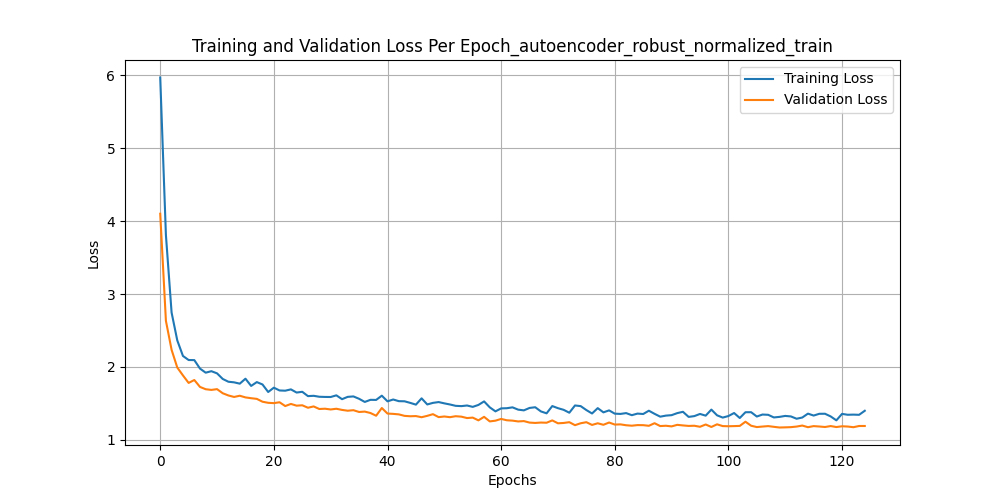
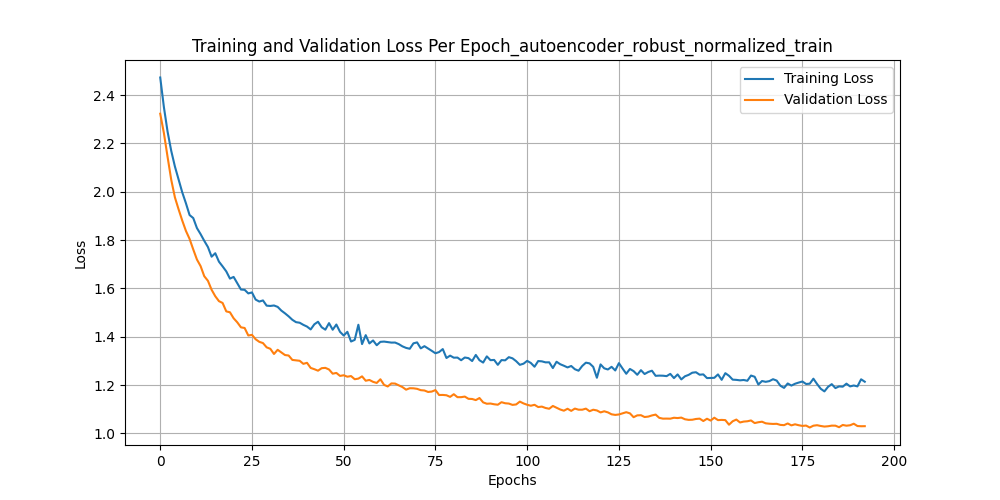
with class 4 samples also unknown in unknown chip

diff --git a/utils/data_utils.py b/utils/data_utils.py
@@ -279,10 +279,11 @@ def compute_robust_class_4_then_normalize(
         }
         stats_per_chip.append(chip_stats)
 
-        # Robust normalize other-class rows in same chip: (x - median) / MAD
-        other_mask = (df_copy[chip_column] == chip) & (df_copy[class_column] != target_class)
-        df_copy.loc[other_mask, columns_to_normalize] = (
-            df_copy.loc[other_mask, columns_to_normalize] - median_target
+        # Robust normalize ALL samples in same chip: (x - median) / MAD
+        # This includes both target class and other classes
+        chip_mask = (df_copy[chip_column] == chip)
+        df_copy.loc[chip_mask, columns_to_normalize] = (
+            df_copy.loc[chip_mask, columns_to_normalize] - median_target
         ) / mad_target
 
     # Compute overall statistics
@@ -728,9 +729,10 @@ def load_and_preprocess_test_data(file_path, fraction=1, random_seed=42,
             
         elif normalization_type == 'class_based_robust':
             # Class-based robust scaling normalization (using target class statistics)
+            # For robust scaling, always normalize ALL classes including Class 4
             _apply_class_based_robust_normalization(X, y, df, target_class_encoded, normalization_columns, 
-                                                   stats_source, stats_path, normalize_target_class)
-            print(f"Applied class-based robust scaling normalization (target class normalization: {normalize_target_class})")
+                                                   stats_source, stats_path, normalize_target_class=True)
+            print(f"Applied class-based robust scaling normalization (all classes normalized using Class 4 statistics)")
             
         elif normalization_type == 'class_based_peak_to_peak':
             # Class-based peak-to-peak normalization (using target class statistics)
@@ -974,41 +976,30 @@ def _normalize_features(X, y, target_class_encoded, peak_columns,
 
 
 def _normalize_features_robust(X, y, target_class_encoded, peak_columns, 
-                              peak_median, peak_mad, temp_median, temp_mad, normalize_target_class=False):
+                              peak_median, peak_mad, temp_median, temp_mad, normalize_target_class=True):
     """
     Helper function to apply class-based robust scaling normalization to features.
+    Robust scaling normalizes ALL classes using Class 4 statistics.
     
     Args:
         X (pd.DataFrame): Feature matrix to normalize
-        y (pd.Series): Labels
-        target_class_encoded (int): Encoded target class value
+        y (pd.Series): Labels (not used in robust scaling as we normalize all)
+        target_class_encoded (int): Target class value (not used as we normalize all)
         peak_columns (list): List of peak column names
         peak_median, peak_mad (np.array): Median and MAD for peak normalization
         temp_median, temp_mad (float): Median and MAD for temperature normalization
-        normalize_target_class (bool): Whether to normalize target class features
+        normalize_target_class (bool): Always True for robust scaling
     """
-    # Determine which classes to normalize
-    if normalize_target_class:
-        # Normalize all classes
-        normalize_mask = pd.Series([True] * len(y), index=y.index)
-    else:
-        # Normalize only non-target classes (original behavior)
-        normalize_mask = (y != target_class_encoded)
+    # For robust scaling, normalize ALL samples (using Class 4 statistics)
+    # This ensures all samples including Class 4 are normalized
     
-    if peak_columns and normalize_mask.sum() > 0:
-        # Avoid division by zero - MAD is already handled in the calling function
-        X.loc[normalize_mask, peak_columns] = (
-            X.loc[normalize_mask, peak_columns] - peak_median
-        ) / peak_mad
+    if peak_columns:
+        # Apply robust normalization: (x - median) / MAD
+        X[peak_columns] = (X[peak_columns] - peak_median) / peak_mad
     
-    # Normalize temperature based on normalize_target_class setting
+    # Normalize temperature for all samples
     if 'Temperature' in X.columns:
-        if normalize_target_class:
-            # Normalize temperature for all classes
-            X['Temperature'] = (X['Temperature'] - temp_median) / temp_mad
-        else:
-            # Normalize temperature only for non-target classes
-            X.loc[normalize_mask, 'Temperature'] = (X.loc[normalize_mask, 'Temperature'] - temp_median) / temp_mad
+        X['Temperature'] = (X['Temperature'] - temp_median) / temp_mad
 
 
 def _normalize_features_peak_to_peak(X, y, target_class_encoded, peak_columns, 

diff --git a/utils/plot_utils.py b/utils/plot_utils.py
@@ -208,25 +208,6 @@ def plot_normalized_train_mean_feature_per_class(df, class_column='match_Class',
 
     # Compute mean for each class
     mean_per_class = df.groupby(class_column)[peak_cols].mean()
-
-    # Only apply directory restructuring if path doesn't already have a normalization directory
-    if not any(f'out/{norm}/' in save_path for norm in ['class_based_mean_std_normalized', 'minmax_normalized', 'normalized', 'raw']):
-        # Extract normalization type from save_path and create directory structure
-        if 'normalized' in save_path or 'minmax' in save_path or 'raw' in save_path:
-            path_parts = save_path.split('/')
-            filename = path_parts[-1]
-            # Extract normalization type from filename
-            if filename.startswith('minmax_normalized'):
-                norm_type = 'minmax_normalized'
-            elif filename.startswith('normalized'):
-                norm_type = 'normalized'
-            elif filename.startswith('raw'):
-                norm_type = 'raw'
-            else:
-                norm_type = 'default'
-            
-            # Create new save path with normalization-specific directory
-            save_path = f'out/{norm_type}/{filename}'
     
     # Ensure output directory exists
     os.makedirs(os.path.dirname(save_path), exist_ok=True)

diff --git a/utils/config.py b/utils/config.py
@@ -28,7 +28,7 @@ normalization_technique = "standardscaler"
 target_class = 4
 num_chip_selection = 5
 base_path = f"data/out/normalized_robust"
-stats_path = f"data/fts_mzi_dataset/normalization_statistics.json"
+stats_path = f"data/fts_mzi_dataset/robust_normalization_statistics.json"
 # base_path = "/Users/steliospapargyris/Documents/MyProjects/data_thesis/no_normalization/5chips_old"
 # base_path = f"/Users/steliospapargyris/Documents/MyProjects/data_thesis/mean_and_std_of_class_{target_class}_of_every_chip/{num_chip_selection}chips_old"
 # base_path = f"/Users/steliospapargyris/Documents/MyProjects/data_thesis/mean_and_std_of_class_{target_class}_of_every_chip/{num_chip_selection}chips_no_noise"

diff --git a/test.py b/test.py
@@ -14,7 +14,8 @@ print("Loading and preprocessing test data...")
 # Test configuration (can be overridden if needed)
 CURRENT_STATS_SOURCE = 'compute'  # 'compute' or 'json'
 CURRENT_STATS_PATH = stats_path  # Only used if CURRENT_STATS_SOURCE = 'json'
-NORMALIZE_TARGET_CLASS = False
+# For robust normalization, always normalize ALL classes including Class 4
+NORMALIZE_TARGET_CLASS = True
 
 # Load test data with selected normalization
 X_test, y_test, label_encoder = load_and_preprocess_test_data(

diff --git a/README.md b/README.md
@@ -38,39 +38,20 @@ python apply_normalization.py && python train_autoencoder.py && python train_cla
 ## 📢 Release Notes
 
 ### 🚀 Upcoming Changes
-- Normalize by dividing with the max of every peak
-- Take **ideas** from other **papers** (for let's say autoencoder -> xeR^32 -> x anhkei R^32
-- Start with describing the dataset (ask for the paper)
-- Auto Encoder describe z latent space, we use it in the decoder (figure) mathematically and visually + Normalization in input (like callibration), based on class 4 tihs mathematical expression (mean and std of class 4 to other classes in the same chip)
-- After that just say that i have this classifier
-- In proposed Method i should be as abstract as possible. And then in a different chapter more detail to every
-- What is the proposed method -> encoder-decoder, after that Global Local Model (Feature Extraction)
-- I should compare "same" models with same features not a model that has a temperature feature with one that does not
-- Proposed Method -> auto encoder with 32 features --> % accuracy
-- CNN --> % accuracy
-- etc
-- Proposed Method -> auto encoder with 33 features --> % accuracy (bigger accuracy with temperature) not compare with cnn or global and local with 32 features
-- In a **table** i should compare those different methods (must be clear)
-- Class 4 Mean and subtract
-other (not class 4) classes
-with this mean of class 4
-100.0% 48.12% (It's a part of autoencoder implementation so it must be into thesis)
-- Normalization in plots not with numbers. Numbers only for our results
 
-- Write the thesis
+- Normalization to all samples not excluding Class 4 and in test set i know only the statistics (e.g mean and std) not the class of the samples
 
-For future:
-        self.conv2 = nn.Conv1d(32, 64, kernel_size=3, padding=1)
-        self.bn2 = nn.BatchNorm1d(64)
-        self.pool2 = nn.MaxPool1d(2)
-        # Lout = (16 + 2 - 3)/1 + 1 --> Lout = 16
-        # pooling --> 8
+- Few shot learning (fine tune, started incrementally from 10%) + table if not do normalization, if not do autoencoder, if not do both etc -> see the improvement of the accuracy
 
-        # input length --> 32
-        # After pool1: 16, After pool2: 8, 64 channels
-        self.flattened_size = 64 * 8  # update based on input size
-pool2: from 8 to 6 
-Drop encoder to 8 bits.
+- t sne algorithm to output of decoder and latent space to see if they are being διαχωριζονται
+
+no chip 1,2,3,4,5 all in one and then normalization, autoencoder and inference
+Normalization 
+One autoencoder for every chip and then target for autoencoder will be the sample of T= (e.g = 25C) 
+One more autoencoder that will take the above outputed data to one baseline chip (initial before 1st autoencoder for T=25C) (selection is up to me) 
+and then classifier 
+
+In test set of the initial splitting of dataset (70-20-10)
 
 ### ✅ Implemented
 
